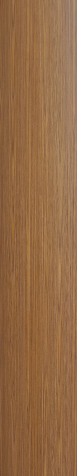
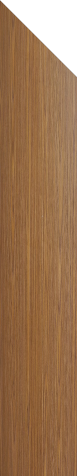
Preload images

Changed region(s): [[0.0, 0.0, 1.0, 0.1765]]

diff --git a/src/main/java/com/winter/PreloadImages.java b/src/main/java/com/winter/PreloadImages.java
@@ -1,0 +1,26 @@
+package com.winter;
+
+import java.util.HashMap;
+
+import javafx.scene.image.Image;
+
+public class PreloadImages {
+	public HashMap<String, Image> pieceImages = new HashMap<>();
+	public HashMap<String, Image> boardImages = new HashMap<>();
+
+	PreloadImages(){
+		//I would have *much* preferred to list all files in the directory and use that, but i couldn't make it work with javafx. maybe another time
+		final String[] pieceNameList = {"Bishop", "Gold", "Silver", "Jewel", "King", "Knight", "Lance", "Pawn", "Rook"};
+		final String playerPieceFolderPath = "/com/winter/images/pieces/player";
+		final String opponentPieceFolderPath = "/com/winter/images/pieces/opponent";
+		final String boardFolderPath = "/com/winter/images/boards";
+
+		for(String pieceName : pieceNameList){
+			pieceImages.put("player" + pieceName, new Image(getClass().getResource(playerPieceFolderPath + "/player" + pieceName + ".jpg").toExternalForm()));
+			pieceImages.put("opponent" + pieceName, new Image(getClass().getResource(opponentPieceFolderPath + "/opponent" + pieceName + ".jpg").toExternalForm()));
+		}
+		boardImages.put("lightYellowBoard", new Image(getClass().getResource(boardFolderPath + "/light-yellow.jpg").toExternalForm()));
+	}
+
+	
+}

diff --git a/src/main/java/com/winter/Hand.java b/src/main/java/com/winter/Hand.java
@@ -11,7 +11,7 @@ import javafx.scene.layout.VBox;
 
 public class Hand extends VBox{
 	final Double handWidth = 50d; //width of each player's hand
-	Image handImage = new Image(getClass().getResource("/com/winter/images/boards/hand2.png").toExternalForm());
+	Image handImage = new Image(getClass().getResource("/com/winter/images/boards/hand.png").toExternalForm());
 	BackgroundImage handBackgroundImage = new BackgroundImage(handImage,
 		javafx.scene.layout.BackgroundRepeat.NO_REPEAT,
 		javafx.scene.layout.BackgroundRepeat.NO_REPEAT,
@@ -21,6 +21,7 @@ public class Hand extends VBox{
 	Background handBackground = new Background(handBackgroundImage);
 
 	Insets handInsets = new Insets(50, 0, 0, 0);
+
 	Hand(String side){
 		setBackground(handBackground);
 		setMinWidth(handWidth);
@@ -33,5 +34,8 @@ public class Hand extends VBox{
 			setScaleX(-1);
 			setScaleY(-1);
 		}
+
+		//Add content
+
 	}
 }

diff --git a/src/main/java/com/winter/ShogiApp.java b/src/main/java/com/winter/ShogiApp.java
@@ -7,6 +7,7 @@ import javafx.scene.layout.BorderPane;
 import javafx.stage.Stage;
 
 public class ShogiApp extends Application {
+	public final PreloadImages images = new PreloadImages();
 	@Override
 	public void start(Stage primaryStage) throws Exception{
 		//Sets up layout
